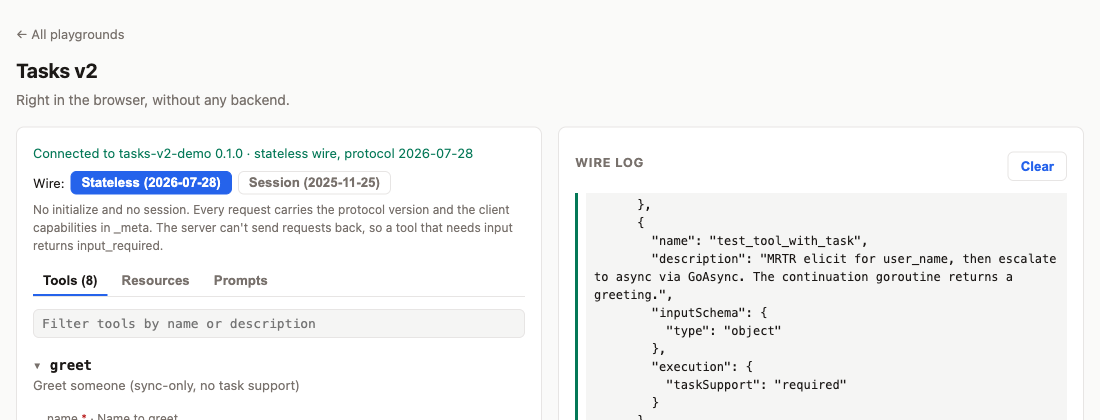
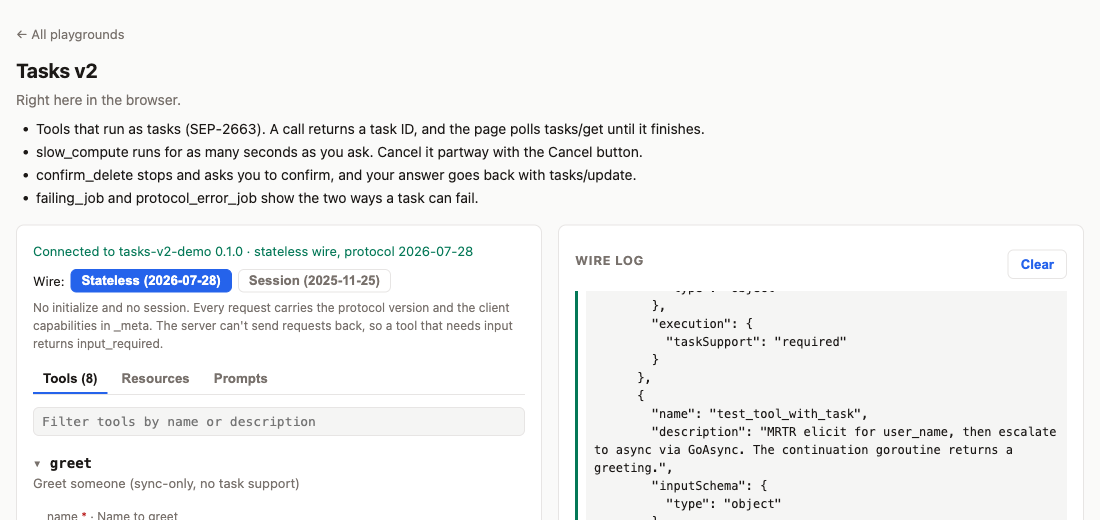
examples: each playground says what it shows, in 3 to 5 bullets
The subtitle becomes "Right here in the browser.", and a short list under
it says what the playground demonstrates and what to try. The bullets live
in each manifest's new "about" field, and the landing page build stops if
a manifest has fewer than 3 or more than 5. The spec checks the rendered
bullets against the manifest on every page and wire.

list-ttl's browser build now serves the same 60-second TTL as `make
serve`. Before, its lists carried no cache hint, so its playground showed
nothing of what the example is about.

diff --git a/examples/common/web/index.html b/examples/common/web/index.html
@@ -23,7 +23,9 @@
          font: 14px/1.5 system-ui, -apple-system, sans-serif; }
   main { max-width: 1200px; margin: 0 auto; padding: 24px 16px; }
   h1 { font-size: 20px; margin: 0 0 4px; }
-  .sub { color: var(--muted); margin: 0 0 16px; }
+  .sub { color: var(--muted); margin: 0 0 8px; }
+  .about { margin: 0 0 16px; padding-left: 20px; color: var(--fg); max-width: 820px; }
+  .about li { margin: 2px 0; }
   .grid { display: grid; grid-template-columns: minmax(0, 1fr) minmax(0, 1fr); gap: 16px; align-items: start; }
   @media (max-width: 860px) { .grid { grid-template-columns: minmax(0, 1fr); } }
   section { background: var(--panel); border: 1px solid var(--border); border-radius: 8px; padding: 16px; min-width: 0; }
@@ -86,7 +88,8 @@
 <main>
   <nav style="font-size:13px;margin-bottom:12px"><a href="../" style="color:var(--muted);text-decoration:none">← All playgrounds</a></nav>
   <h1 id="title">Playground</h1>
-  <p class="sub">Right in the browser, without any backend.</p>
+  <p class="sub">Right here in the browser.</p>
+  <ul class="about" id="about" hidden></ul>
   <div class="grid">
     <section>
       <div id="status" class="status">Loading server.wasm…</div>
@@ -681,6 +684,10 @@ fetch("playground.json").then((r) => (r.ok ? r.json() : {})).catch(() => ({})).t
   if (m.title) {
     $("title").textContent = m.title;
     document.title = m.title + " · Playground";
+  }
+  if (Array.isArray(m.about) && m.about.length) {
+    $("about").replaceChildren(...m.about.map((t) => el("li", { text: t })));
+    $("about").hidden = false;
   }
   const asked = new URLSearchParams(location.search).get("wire");
   wire = wires.includes(asked) ? asked : wires[0];

diff --git a/tests/web-examples/tests/web-examples.spec.ts b/tests/web-examples/tests/web-examples.spec.ts
@@ -18,7 +18,7 @@ type Wire = "stateless" | "session";
 // Complete types into a prompt argument and expects a completion/complete suggestion.
 type Complete = { prompt: string; argument: string; value: string; expect: string };
 type Manifest = {
-  title: string; summary: string; docs?: string; package?: string; wires?: Wire[]; smoke?: Smoke; complete?: Complete;
+  title: string; summary: string; about: string[]; docs?: string; package?: string; wires?: Wire[]; smoke?: Smoke; complete?: Complete;
 };
 
 const examples = readdirSync(new URL("../.site/try/", import.meta.url), { withFileTypes: true })
@@ -80,6 +80,7 @@ for (const name of examples) {
       await page.goto(`/try/${name}/?wire=${wire}`);
       await expect(page.locator("#status")).toContainText(`${wire} wire`, { timeout: 30_000 });
       await expect(page.locator("#title")).toHaveText(manifest(name).title);
+      await expect(page.locator("#about li")).toHaveText(manifest(name).about);
 
       const log = page.locator("#log");
       if (wire === "stateless") {

diff --git a/scripts/web_examples_index.py b/scripts/web_examples_index.py
@@ -102,6 +102,9 @@ def load(try_dir: Path) -> list[tuple[str, dict]]:
         for key in ("title", "summary"):
             if not data.get(key):
                 sys.exit(f"web-examples-index: {d.name}/playground.json has no {key}")
+        about = data.get("about")
+        if not isinstance(about, list) or not 3 <= len(about) <= 5:
+            sys.exit(f"web-examples-index: {d.name}/playground.json needs 3 to 5 \"about\" bullets")
         out.append((d.name, data))
     # getting-started leads, the rest go by title.
     out.sort(key=lambda e: (e[0] != FIRST, e[1]["title"].lower()))

diff --git a/examples/list-ttl/web/main.go b/examples/list-ttl/web/main.go
@@ -13,7 +13,8 @@ import (
 )
 
 func main() {
-	srv := server.NewServer(core.ServerInfo{Name: "list-ttl-demo", Version: "0.1.0"})
+	// The same 60-second TTL `make serve` uses, so every list carries a hint.
+	srv := server.NewServer(core.ServerInfo{Name: "list-ttl-demo", Version: "0.1.0"}, mcp.Options(60000, "")...)
 	mcp.Register(srv)
 	log.Fatal(srv.Run(":8080"))
 }

diff --git a/examples/CONVENTIONS.md b/examples/CONVENTIONS.md
@@ -1128,7 +1128,10 @@ examples/<name>/
 - Data the server reads from disk gets embedded in `mcp/`, as `skills-core` and `disclosure`
   do with `mcp/skills/`.
 - Add `web/playground.json`. Having one makes the example browser-ready.
-  - `title`, `summary`: the card on the `/try/` landing page.
+  - `title`, `summary`: the card on the `/try/` landing page. `title` is also the playground's
+    heading.
+  - `about`: 3 to 5 short bullets under the heading, saying what the playground shows and what to
+    try. The landing page build stops without them.
   - `docs`: the site path of its README page, such as `examples/tasks-v2/`.
   - `smoke`: `tool`, the `expect` text, and optionally `args`, `files` (attached to file inputs:
     `{"field": {"name", "mimeType", "text"}}`), `group` and `replies`. `tests/web-examples` makes
